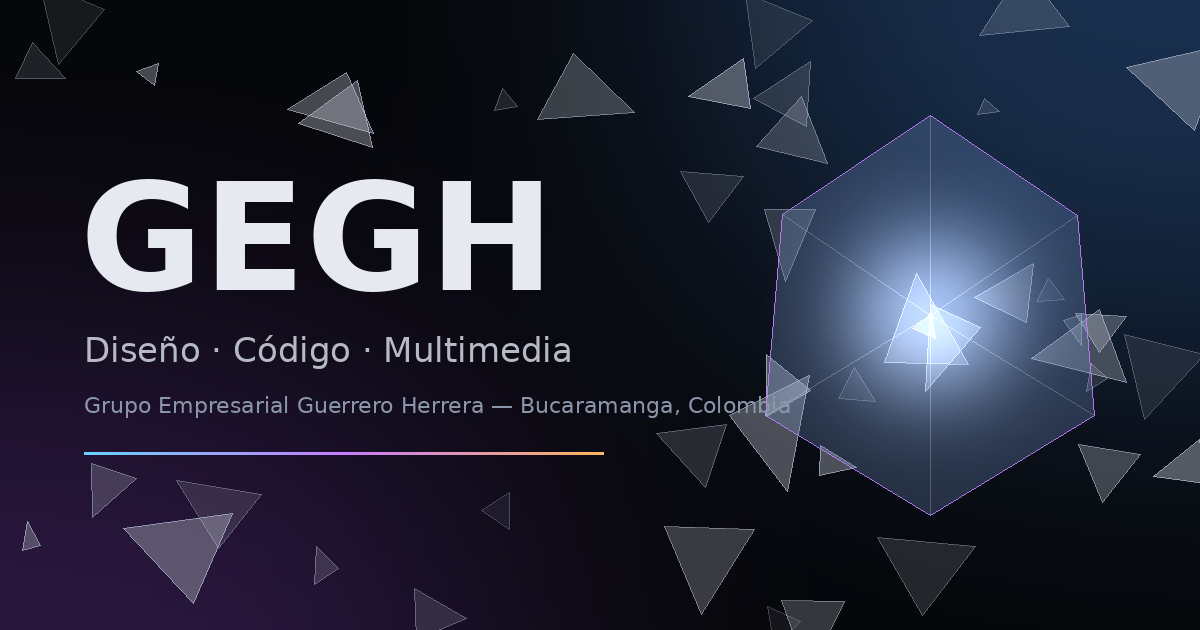
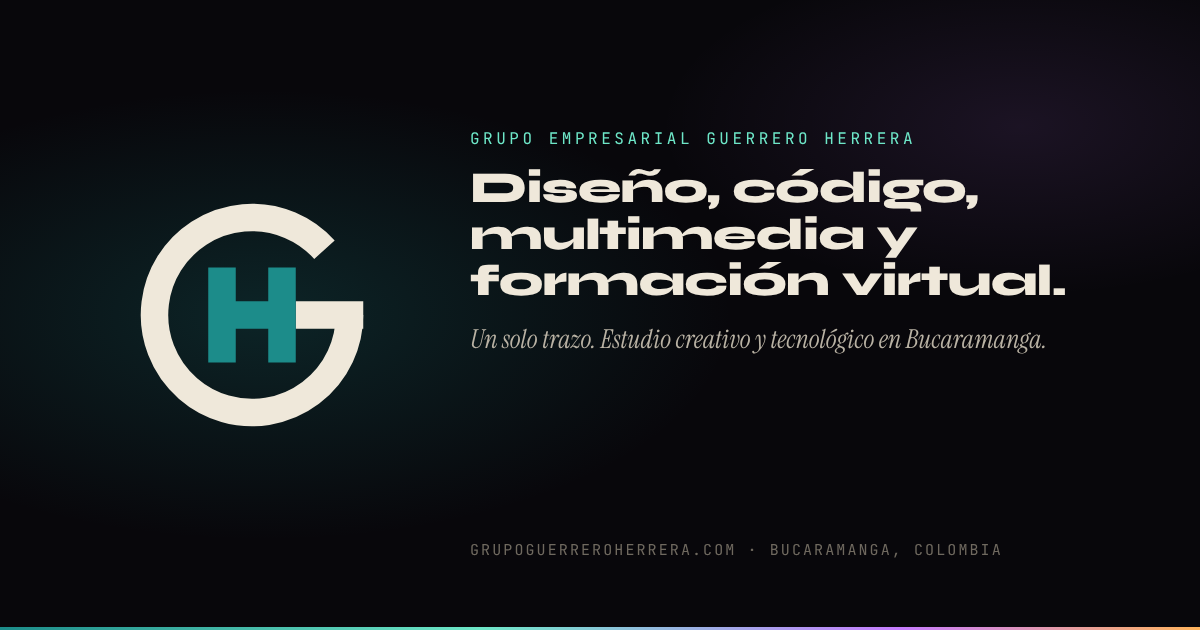
Identidad nueva y Aulea Viva como marca de formación virtual (v7.2) (#7)
Isotipo G-acoge-H en compuerta, navegación, favicon y Open Graph; capítulo 05 presenta a Aulea Viva; fundadores visibles y en datos estructurados; SEO y sitemap actualizados.

Claude-Session: https://claude.ai/code/session_01KU8kwQwaCDNi5mGBUjYHiF

diff --git a/index.html b/index.html
@@ -9,8 +9,8 @@
 <head>
   <meta charset="utf-8">
   <meta name="viewport" content="width=device-width, initial-scale=1, viewport-fit=cover">
-  <title>Diseño gráfico, software y multimedia en Bucaramanga | GEGH</title>
-  <meta name="description" content="Estudio creativo y tecnológico en Bucaramanga: diseño gráfico, software y desarrollo web, producción multimedia y plataformas de aprendizaje (LMS). Diagnóstico inicial sin costo.">
+  <title>Diseño, software, multimedia y formación virtual | GEGH, Bucaramanga</title>
+  <meta name="description" content="Estudio creativo y tecnológico en Bucaramanga: diseño gráfico, software y desarrollo web, producción multimedia y, con Aulea Viva, formación virtual de calidad (Moodle, Canvas, diseño instruccional, auditoría de aulas). Diagnóstico inicial sin costo.">
   <meta name="author" content="Grupo Empresarial Guerrero Herrera">
   <meta name="copyright" content="Grupo Empresarial Guerrero Herrera S.A.S.">
   <meta name="generator" content="GEGH — Grupo Empresarial Guerrero Herrera">
@@ -20,16 +20,16 @@
   <meta property="og:type" content="website">
   <meta property="og:url" content="https://www.grupoguerreroherrera.com/">
   <meta property="og:site_name" content="GEGH — Grupo Empresarial Guerrero Herrera">
-  <meta property="og:title" content="GEGH — Diseño, software y multimedia en Bucaramanga">
-  <meta property="og:description" content="Grupo Empresarial Guerrero Herrera. Diseñamos marcas con carácter, construimos software que escala y producimos piezas que se sienten.">
+  <meta property="og:title" content="GEGH — Diseño, software, multimedia y formación virtual en Bucaramanga">
+  <meta property="og:description" content="Grupo Empresarial Guerrero Herrera. Diseñamos marcas con carácter, construimos software que escala, producimos piezas que se sienten y, con Aulea Viva, formamos en entornos virtuales que cumplen.">
   <meta property="og:image" content="https://www.grupoguerreroherrera.com/assets/og.png">
   <meta property="og:image:width" content="1200">
   <meta property="og:image:height" content="630">
-  <meta property="og:image:alt" content="GEGH — Diseño, código y multimedia. Estudio creativo y tecnológico en Bucaramanga.">
+  <meta property="og:image:alt" content="GEGH — Diseño, código, multimedia y formación virtual. Un solo trazo. Estudio creativo y tecnológico en Bucaramanga.">
   <meta property="og:locale" content="es_CO">
   <meta name="twitter:card" content="summary_large_image">
-  <meta name="twitter:title" content="GEGH — Diseño, software y multimedia en Bucaramanga">
-  <meta name="twitter:description" content="Estudio creativo y tecnológico en Bucaramanga. Diseño gráfico, software y desarrollo web, multimedia.">
+  <meta name="twitter:title" content="GEGH — Diseño, software, multimedia y formación virtual en Bucaramanga">
+  <meta name="twitter:description" content="Estudio creativo y tecnológico en Bucaramanga. Diseño gráfico, software y desarrollo web, multimedia y formación virtual con Aulea Viva.">
   <meta name="twitter:image" content="https://www.grupoguerreroherrera.com/assets/og.png">
 
   <link rel="icon" href="assets/favicon.svg" type="image/svg+xml">
@@ -53,17 +53,30 @@
     "name": "Grupo Empresarial Guerrero Herrera S.A.S.",
     "alternateName": "GEGH",
     "url": "https://www.grupoguerreroherrera.com/",
-    "logo": "https://www.grupoguerreroherrera.com/assets/favicon.svg",
+    "logo": "https://www.grupoguerreroherrera.com/assets/brand/gegh-logo.png",
     "image": "https://www.grupoguerreroherrera.com/assets/og.png",
     "email": "direccioncomercial@grupoguerreroherrera.com",
     "telephone": "+57 302 528 0632",
-    "description": "Estudio creativo y tecnológico en Bucaramanga: diseño gráfico e identidad, software y desarrollo web, producción multimedia y plataformas de aprendizaje (LMS).",
+    "description": "Estudio creativo y tecnológico en Bucaramanga: diseño gráfico e identidad, software y desarrollo web, producción multimedia y formación virtual con Aulea Viva (diseño instruccional, auditoría de aulas, docentes y plataformas LMS).",
     "address": { "@type": "PostalAddress", "addressLocality": "Bucaramanga", "addressRegion": "Santander", "addressCountry": "CO" },
     "geo": { "@type": "GeoCoordinates", "latitude": 7.0621, "longitude": -73.0865 },
     "areaServed": ["Colombia", "Latinoamérica", "Estados Unidos", "Europa"],
     "knowsLanguage": ["es", "en", "pt", "de"],
     "contactPoint": { "@type": "ContactPoint", "contactType": "sales", "telephone": "+57 302 528 0632", "email": "direccioncomercial@grupoguerreroherrera.com", "availableLanguage": ["es", "en", "pt", "de"] },
-    "serviceType": ["Diseño gráfico e identidad visual", "Software y desarrollo web", "Producción multimedia", "Plataformas de aprendizaje (LMS): implementación, auditoría y acompañamiento"]
+    "serviceType": ["Diseño gráfico e identidad visual", "Software y desarrollo web", "Producción multimedia", "Formación virtual: diseño instruccional, auditoría de aulas, formación docente y plataformas LMS"],
+    "subOrganization": {
+      "@type": "Organization",
+      "name": "Aulea Viva",
+      "url": "https://auleaviva.com/",
+      "description": "Marca de formación virtual de GEGH: consultoría en calidad académica virtual para universidades, instituciones de formación para el trabajo y empresas."
+    },
+    "legalName": "Grupo Empresarial Guerrero Herrera S.A.S.",
+    "foundingDate": "2024",
+    "founder": [
+      { "@type": "Person", "name": "Angélica Saraith Herrera Osorio", "jobTitle": "Representante legal" },
+      { "@type": "Person", "name": "Juan Felipe Guerrero Urueña", "jobTitle": "Consultor en formación virtual" }
+    ],
+    "sameAs": ["https://auleaviva.com/"]
   }
   </script>
 
@@ -156,14 +169,19 @@ body.has-cursor .cursor,body.has-cursor .cursor-ring{display:block}
 }
 .gate.is-out{opacity:0;visibility:hidden;pointer-events:none}
 .gate__inner{max-width:560px}
-.gate__mark svg{width:min(60vw,340px);margin:0 auto 18px;overflow:visible}
-.gate__mark text{
-  font-family:var(--font-display);font-weight:800;font-size:176px;letter-spacing:-.02em;
-  fill:none;stroke:var(--bone);stroke-width:1.3;
-  stroke-dasharray:2300;stroke-dashoffset:2300;
-  animation:draw 2.2s var(--ease) forwards;
-}
+.gate__mark svg{width:min(38vw,180px);margin:0 auto 10px;overflow:visible}
+/* El isotipo se dibuja como un solo trazo: primero la G (arco y barra), luego la H que acoge */
+.gate__mark .gs{fill:none;stroke:var(--bone);stroke-width:11;stroke-dasharray:230;stroke-dashoffset:230;animation:draw 1.1s var(--ease) forwards}
+.gate__mark .gs--arc{animation-duration:1.5s}
+.gate__mark .gs--bar{animation-delay:1.15s;animation-duration:.45s}
+.gate__mark .gs--h{stroke:#1c8c8a}
+.gate__mark .gs--h1{animation-delay:1.4s;animation-duration:.5s}
+.gate__mark .gs--h2{animation-delay:1.55s;animation-duration:.5s}
+.gate__mark .gs--h3{animation-delay:1.8s;animation-duration:.4s}
+.gate__word{font-family:var(--font-display);font-weight:500;font-size:clamp(1.4rem,3.2vw,1.9rem);letter-spacing:.14em;color:var(--bone);opacity:0;animation:fadeIn .9s var(--ease) 1.9s forwards}
+.gate__word b{font-weight:800}
 @keyframes draw{to{stroke-dashoffset:0}}
+@keyframes fadeIn{to{opacity:1}}
 .gate__line{position:relative;width:min(62vw,300px);height:1px;margin:0 auto 18px;background:var(--line);overflow:hidden}
 .gate__line i{position:absolute;left:0;top:0;height:100%;width:0;background:linear-gradient(90deg,var(--violeta),var(--cian),var(--ambar));transition:width .3s linear}
 .gate__counter{font-family:var(--font-mono);font-size:12px;letter-spacing:.14em;color:var(--bone-2);font-variant-numeric:tabular-nums}
@@ -202,8 +220,11 @@ body.has-cursor .cursor,body.has-cursor .cursor-ring{display:block}
 }
 .nav>*{pointer-events:auto}
 .is-entered .nav{opacity:1;transform:none}
-.logo{font-family:var(--font-display);font-weight:500;font-size:19px;letter-spacing:.04em;color:var(--bone)}
+.logo{display:inline-flex;align-items:center;gap:10px;font-family:var(--font-display);font-weight:500;font-size:19px;letter-spacing:.04em;color:var(--bone)}
 .logo b{font-weight:800}
+.logo__iso{width:30px;height:30px;flex:none;overflow:visible}
+.logo__iso path{fill:none;stroke:var(--bone);stroke-width:11}
+.logo__iso .h{stroke:#1c8c8a}
 .nav__links{display:flex;gap:30px;font-size:13px;font-weight:500}
 .nav__links a{position:relative;color:var(--bone-2);transition:color .3s;padding:6px 0}
 .nav__links a::after{content:'';position:absolute;left:0;right:100%;bottom:0;height:1px;background:var(--bone);transition:right .4s var(--ease)}
@@ -347,6 +368,7 @@ main{position:relative;z-index:1}
 #aprendizaje .list{margin:18px 0 22px}
 #aprendizaje .list li{padding:10px 0;font-size:clamp(.9rem,1vw,1rem)}
 #aprendizaje .note{margin:0 0 22px;padding-top:12px}
+.cta-row{display:flex;flex-wrap:wrap;gap:12px}
 
 /* ---------- Proceso ---------- */
 .steps{list-style:none;padding:0;margin:26px 0 0;max-width:560px;counter-reset:paso}
@@ -406,6 +428,8 @@ main{position:relative;z-index:1}
 .contact-link .val{overflow-wrap:anywhere;min-width:0}
 .contact-link .val--mail{font-family:var(--font-body);font-weight:500;font-size:clamp(.95rem,1.5vw,1.35rem);letter-spacing:0}
 .contact-link:hover{color:var(--ambar);padding-left:8px}
+.contact-link--static:hover{color:var(--bone);padding-left:0}
+.contact-link .val--names{font-size:clamp(1.05rem,2vw,1.7rem)}
 .footer{display:flex;flex-wrap:wrap;justify-content:space-between;gap:10px 28px;padding:26px 0 calc(10px + var(--safe-bottom));border-top:1px solid var(--line);font-size:12px;color:var(--bone-3)}
 
 /* ---------- WhatsApp flotante ---------- */
@@ -471,7 +495,8 @@ main{position:relative;z-index:1}
   .reveal{opacity:1;transform:none}
   .title .wi{transform:none}
   .hero-title .t-outline{stroke-dasharray:none;stroke-dashoffset:0}
-  .gate__mark text{stroke-dashoffset:0}
+  .gate__mark .gs{stroke-dashoffset:0}
+  .gate__word{opacity:1}
 }
   </style>
 </head>
@@ -479,7 +504,7 @@ main{position:relative;z-index:1}
   <noscript>
     <div class="noscript">
       <strong>GEGH — Grupo Empresarial Guerrero Herrera.</strong><br>
-      Diseño gráfico, software y desarrollo web, multimedia. Activa JavaScript para ver la experiencia completa.<br>
+      Diseño gráfico, software y desarrollo web, multimedia y formación virtual (Aulea Viva). Activa JavaScript para ver la experiencia completa.<br>
       WhatsApp +57 302 528 0632 · direccioncomercial@grupoguerreroherrera.com · Bucaramanga, Colombia
     </div>
   </noscript>
@@ -493,11 +518,18 @@ main{position:relative;z-index:1}
   <div id="gate" class="gate" role="dialog" aria-label="Bienvenida">
     <div class="gate__inner">
       <div class="gate__mark" aria-hidden="true">
-        <svg viewBox="0 0 640 220"><text x="320" y="164" text-anchor="middle">GEGH</text></svg>
+        <svg viewBox="-8 -8 116 116">
+          <path class="gs gs--arc" d="M 78.98 23.9 A 39 39 0 1 0 89 50"/>
+          <path class="gs gs--bar" d="M 94.5 50 L 67.5 50"/>
+          <path class="gs gs--h gs--h1" d="M 38 31 L 38 69"/>
+          <path class="gs gs--h gs--h2" d="M 62 31 L 62 69"/>
+          <path class="gs gs--h gs--h3" d="M 67.5 50 L 38 50"/>
+        </svg>
+        <div class="gate__word">GE<b>GH</b></div>
       </div>
       <div class="gate__line"><i id="gateBar"></i></div>
       <div class="gate__counter"><span id="gateCounter">000</span></div>
-      <p class="gate__tag">Diseño, código y multimedia. Un solo trazo.</p>
+      <p class="gate__tag">Diseño, código, multimedia y formación virtual. Un solo trazo.</p>
       <div class="gate__actions">
         <button id="enterSound" class="btn btn--primary" type="button"><span>Entrar con sonido</span></button>
         <button id="enterSilent" class="gate__silent" type="button">o entrar en silencio</button>
@@ -508,7 +540,14 @@ main{position:relative;z-index:1}
 
   <!-- Navegación -->
   <header class="nav">
-    <a class="logo" href="#hero" aria-label="GEGH, inicio">GE<b>GH</b></a>
+    <a class="logo" href="#hero" aria-label="GEGH, inicio">
+      <svg class="logo__iso" viewBox="-8 -8 116 116" aria-hidden="true">
+        <path d="M 78.98 23.9 A 39 39 0 1 0 89 50"/>
+        <path d="M 94.5 50 L 67.5 50"/>
+        <path class="h" d="M 67.5 50 L 38 50 M 38 31 L 38 69 M 62 31 L 62 69"/>
+      </svg>
+      <span>GE<b>GH</b></span>
+    </a>
     <nav class="nav__links" aria-label="Secciones">
       <a href="#manifiesto" data-stations="1">Manifiesto</a>
       <a href="#servicios" data-stations="2,3,4,5">Servicios</a>
@@ -537,6 +576,7 @@ main{position:relative;z-index:1}
     <div class="menu__foot">
       <a href="https://wa.me/573025280632?text=Hola%20GEGH%2C%20quiero%20hablar%20con%20ustedes." target="_blank" rel="noopener">WhatsApp +57 302 528 0632</a>
       <a href="mailto:direccioncomercial@grupoguerreroherrera.com">direccioncomercial@grupoguerreroherrera.com</a>
+      <a href="https://auleaviva.com/" target="_blank" rel="noopener">Aulea Viva · formación virtual</a>
     </div>
   </div>
 
@@ -546,7 +586,7 @@ main{position:relative;z-index:1}
     <a href="#servicios" data-ch="2"><span>Diseño</span>02</a>
     <a href="#software" data-ch="3"><span>Software</span>03</a>
     <a href="#multimedia" data-ch="4"><span>Multimedia</span>04</a>
-    <a href="#aprendizaje" data-ch="5"><span>Aprendizaje</span>05</a>
+    <a href="#aprendizaje" data-ch="5"><span>Formación virtual</span>05</a>
     <a href="#proceso" data-ch="6"><span>Proceso</span>06</a>
     <a href="#colaboracion" data-ch="7"><span>Colaboración</span>07</a>
     <a href="#contacto" data-ch="8"><span>Contacto</span>08</a>
@@ -582,7 +622,7 @@ main{position:relative;z-index:1}
             </g>
           </svg>
 
-          <p class="lead hero__lead reveal">Somos <strong>Grupo Empresarial Guerrero Herrera</strong>. Diseñamos marcas con carácter, construimos software que escala, producimos piezas que se sienten y operamos plataformas de aprendizaje que forman. Un solo equipo, <em>un solo trazo</em>: desde Bucaramanga para Colombia, Latam, Estados Unidos y Europa.</p>
+          <p class="lead hero__lead reveal">Somos <strong>Grupo Empresarial Guerrero Herrera</strong>. Diseñamos marcas con carácter, construimos software que escala, producimos piezas que se sienten y, con <strong>Aulea Viva</strong>, formamos en entornos virtuales que cumplen. Un solo equipo, <em>un solo trazo</em>: desde Bucaramanga para Colombia, Latam, Estados Unidos y Europa.</p>
 
           <div class="hero__cta reveal">
             <a class="btn btn--primary" href="https://wa.me/573025280632?text=Hola%20GEGH%2C%20quiero%20hablar%20con%20ustedes." target="_blank" rel="noopener"><span>Hablemos por WhatsApp</span></a>
@@ -612,7 +652,7 @@ main{position:relative;z-index:1}
             <li><b>Diseño</b><span>Identidad, sistemas visuales e interfaces que se recuerdan.</span></li>
             <li><b>Código</b><span>Web, software a medida, inteligencia artificial y automatización.</span></li>
             <li><b>Multimedia</b><span>Video, motion, 3D, audio y contenido que circula.</span></li>
-            <li><b>Aprendizaje</b><span>Plataformas LMS, auditoría y acompañamiento para formar a escala.</span></li>
+            <li><b>Formación virtual</b><span>Aulea Viva: diseño instruccional, auditoría de aulas y docentes que forman a escala.</span></li>
           </ul>
         </div>
       </div>
@@ -679,18 +719,21 @@ main{position:relative;z-index:1}
     <section id="aprendizaje" class="chapter chapter--tall chapter--service" data-scene="5" style="--accent:#6ee7c8">
       <div class="panel panel--right">
         <div class="panel__content">
-          <p class="index reveal">Servicios, cuatro de cuatro</p>
-          <h2 class="title reveal"><span class="stroke">Plataformas de</span><br><span class="accent">aprendizaje</span></h2>
-          <p class="tagline reveal">Campus virtuales que forman y se miden.</p>
+          <p class="index reveal">Servicios, cuatro de cuatro · con Aulea Viva</p>
+          <h2 class="title reveal"><span class="stroke">Formación</span><br><span class="accent">virtual</span></h2>
+          <p class="tagline reveal">Aulea Viva: calidad académica que se audita y se mide.</p>
           <ul class="list reveal">
-            <li>Implementación y administración de LMS: Moodle, Canvas, Blackboard y Microsoft 365<span>LMS</span></li>
-            <li>Auditoría de plataformas virtuales: seguridad, accesibilidad, rendimiento y cumplimiento<span>auditoría</span></li>
-            <li>Diseño instruccional y contenidos SCORM, xAPI y H5P<span>contenido</span></li>
-            <li>Integraciones con sistemas académicos, pagos y CRM; inicio de sesión único y analítica de aprendizaje<span>integración</span></li>
-            <li>Mesa de ayuda, formación docente y acompañamiento continuo<span>operación</span></li>
+            <li>Diseño instruccional de cursos y programas virtuales en Moodle, Canvas, Blackboard y Brightspace<span>diseño</span></li>
+            <li>Auditoría y optimización de aulas: estructura, evaluación, seguimiento y cumplimiento<span>auditoría</span></li>
+            <li>Formación y certificación de docentes y tutores virtuales<span>docentes</span></li>
+            <li>Registro calificado, acreditación y aseguramiento de la calidad (Decreto 1330 de 2019)<span>calidad</span></li>
+            <li>Implementación y administración de LMS, integraciones, analítica y mesa de ayuda<span>plataforma</span></li>
           </ul>
-          <p class="note reveal"><b>Auditoría exprés.</b> En siete días entregamos un informe ejecutivo de tu campus virtual: hallazgos priorizados, riesgos y plan de mejora.</p>
-          <a class="btn reveal" href="https://wa.me/573025280632?text=Hola%20GEGH%2C%20me%20interesa%20una%20plataforma%20de%20aprendizaje%20(LMS)%20o%20una%20auditor%C3%ADa." target="_blank" rel="noopener"><span>Cotizar plataforma o auditoría</span></a>
+          <p class="note reveal"><b>Aulea Viva</b> es la marca de formación virtual del grupo: consultoría para universidades, instituciones de formación para el trabajo y empresas. La primera consultoría no tiene costo.</p>
+          <div class="cta-row reveal">
+            <a class="btn btn--primary" href="https://auleaviva.com/" target="_blank" rel="noopener"><span>Conocer Aulea Viva</span></a>
+            <a class="btn" href="https://wa.me/573025280632?text=Hola%20GEGH%2C%20me%20interesa%20la%20formaci%C3%B3n%20virtual%20con%20Aulea%20Viva." target="_blank" rel="noopener"><span>Cotizar formación virtual</span></a>
+          </div>
         </div>
       </div>
     </section>
@@ -758,7 +801,7 @@ main{position:relative;z-index:1}
               <li>Todo lo del plan Profesional</li>
               <li>Software a medida, automatización y agentes de IA</li>
               <li>Producción audiovisual, motion y 3D</li>
-              <li>Campus virtual (LMS), auditoría y acompañamiento</li>
+              <li>Formación virtual con Aulea Viva: campus, auditoría y docentes</li>
               <li>Dirección creativa y acompañamiento continuo</li>
             </ul>
             <div class="card__price"><span>Inversión</span><span>A la medida</span></div>
@@ -787,10 +830,12 @@ main{position:relative;z-index:1}
             <a class="contact-link" href="mailto:direccioncomercial@grupoguerreroherrera.com"><small>Correo</small><span class="val val--mail">direccioncomercial@grupoguerreroherrera.com</span></a>
             <a class="contact-link" href="https://www.google.com/maps/search/?api=1&amp;query=Diamante+II+Bucaramanga+Colombia" target="_blank" rel="noopener"><small>Estudio</small><span class="val">Diamante II, Bucaramanga, Colombia</span></a>
             <a class="contact-link" href="https://wa.me/573025280632?text=Hola%20GEGH%2C%20escribo%20desde%20fuera%20de%20Colombia." target="_blank" rel="noopener"><small>Alcance</small><span class="val">Latam, USA y Europa en español, inglés, portugués y alemán</span></a>
+            <div class="contact-link contact-link--static"><small>Fundadores</small><span class="val val--names">Angélica Herrera Osorio y Juan Felipe Guerrero Urueña</span></div>
           </div>
         </div>
         <footer class="footer">
           <span>© MMXXVI Grupo Empresarial Guerrero Herrera S.A.S.</span>
+          <span><a href="https://auleaviva.com/" target="_blank" rel="noopener">Aulea Viva</a> es una marca de GEGH</span>
           <span>Diseño y desarrollo: Grupo Empresarial Guerrero Herrera</span>
           <span>Hecho en Santander, Colombia</span>
         </footer>

diff --git a/README.md b/README.md
@@ -1,4 +1,4 @@
-# GEGH — Un solo trazo (v7.1)
+# GEGH — Un solo trazo (v7.2)
 
 Sitio de **Grupo Empresarial Guerrero Herrera S.A.S.** · [grupoguerreroherrera.com](https://www.grupoguerreroherrera.com/) · Bucaramanga.
 
@@ -43,12 +43,19 @@ assets/js/app.js           compuerta, scroll → riel, revelados, sonido, cursor
 assets/js/three.r128.min.js
 assets/fonts/              tipografías propias (WOFF2, licencia OFL en LICENCIAS-OFL.txt)
 assets/img/                objetos por capítulo
+assets/brand/               identidad: isotipo (la G acoge la H) y logo horizontal en SVG/PNG
 assets/favicon.svg · assets/og.png · robots.txt · sitemap.xml · google*.html
 .well-known/security.txt   contacto para reportes de seguridad (RFC 9116)
 SECURITY.md                política de seguridad (GitHub la muestra en la pestaña Security)
 scripts/verificar.py       verificación previa a publicar (la corre GitHub Actions)
 .github/workflows/         verificación automática en cada cambio
 ```
+
+## Marcas
+
+- **GEGH** es el paraguas: diseño, software y multimedia.
+- **Aulea Viva** ([auleaviva.com](https://auleaviva.com/)) es la marca de formación virtual del grupo. En este sitio el capítulo 05 la presenta y enlaza; los servicios de LMS, diseño instruccional y auditoría de aulas se venden bajo ella, no en paralelo.
+- La identidad (isotipo G-acoge-H, paleta marino #12253F / verde azulado #1C8C8A, Inter) vive en `assets/brand/`; el sitio la usa en la compuerta, la barra de navegación, el favicon y la imagen Open Graph, sobre su propio tema oscuro.
 
 ## Dónde tocar
 
@@ -57,7 +64,7 @@ scripts/verificar.py       verificación previa a publicar (la corre GitHub Acti
 - **Colores y tipografías**: variables al inicio del `<style>` (`--ink`, `--bone`, `--violeta`, `--cian`, `--ambar`, `--font-*`). Las tipografías se sirven desde `assets/fonts` (sin Google Fonts): para cambiar una, añade su WOFF2 ahí y su `@font-face` junto a los demás.
 - **Música**: reemplaza el archivo en `assets/audio/` y actualiza `TRACK` al inicio de `audio.js` (ruta, cola de silencio final que se recorta del bucle, duración del fundido y nivel). Si cambias la pista con el mismo nombre, los visitantes recientes pueden oír la anterior hasta siete días (caché).
 - **Escena**: `scene.js`. Las estaciones están en `_buildPath` (puntos del riel); cada pieza en su `_build…`. En móvil las piezas se colocan arriba del texto; en escritorio, al lado contrario del texto.
-- **Intro**: `app.js`, bloque "Compuerta"; `scene.playIntro()` controla la duración (3,2 s).
+- **Intro**: `app.js`, bloque "Compuerta"; `scene.playIntro()` controla la duración (3,2 s). El isotipo de la compuerta se dibuja con CSS (`.gate__mark .gs`, un trazo por tramo).
 - **Regla de oro**: nada de `<script>` inline ni atributos `onclick` en el HTML (la CSP los bloquea); todo el JavaScript va en `assets/js`. `scripts/verificar.py` avisa si se rompe esta regla.
 
 ## Seguridad
